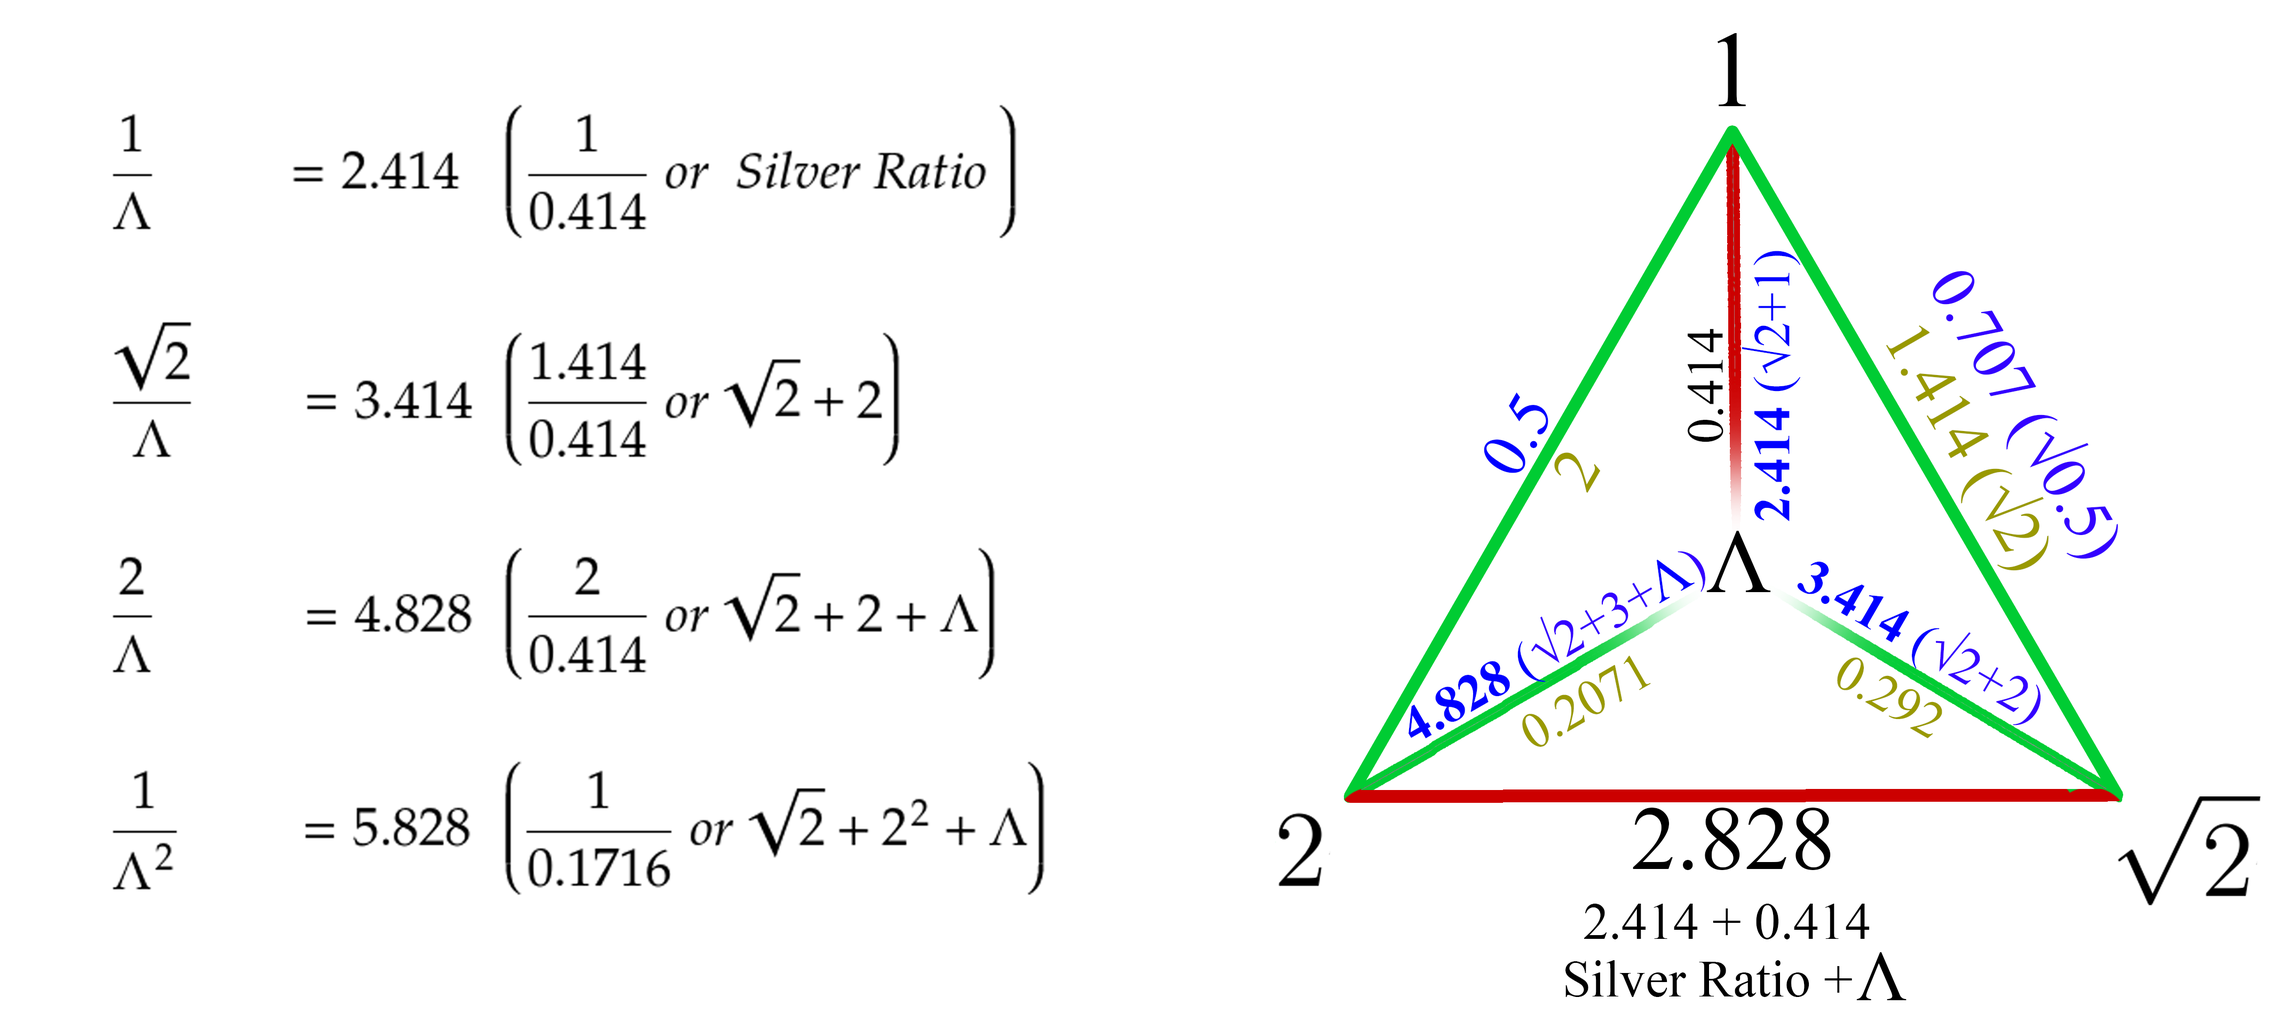
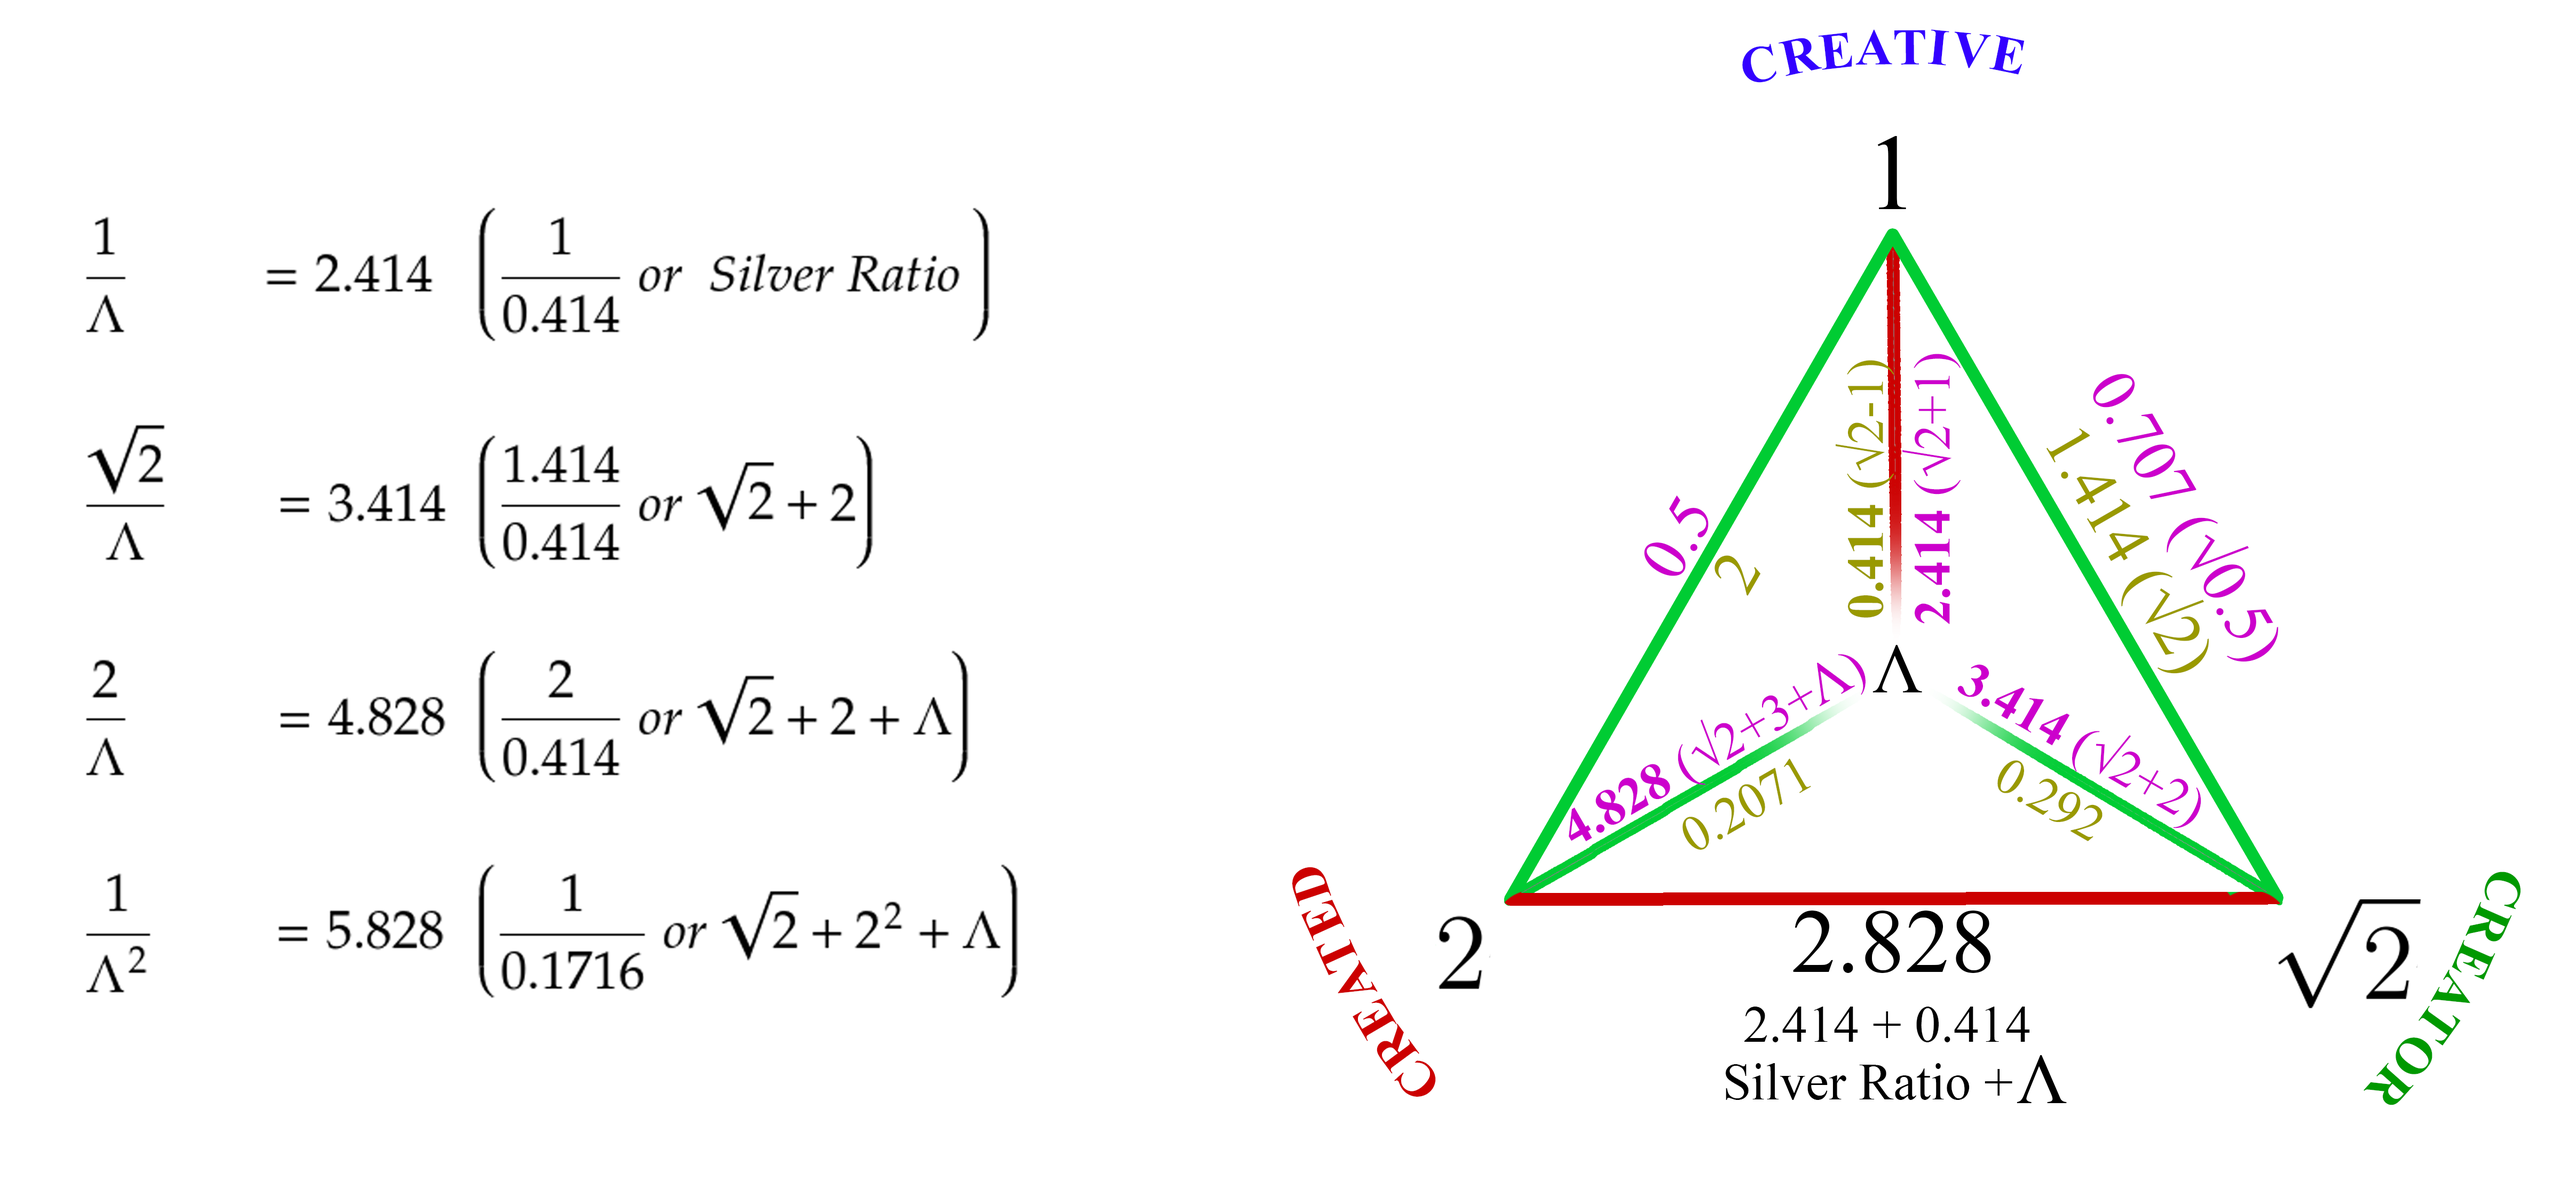
3.6.55 tetrahedral voids

diff --git a/docs/_layouts/default.html b/docs/_layouts/default.html
@@ -36,7 +36,7 @@
           <li><a target="_blank" href="https://mega.nz/#F!NiBwjQiA!VYOo9TlGW9u060-V1LQ0_w">Download <strong>ePub</strong></a></li>
           <li><a target="_blank" href="https://mega.nz/#F!NiBwjQiA!VYOo9TlGW9u060-V1LQ0_w">Download <strong>HTML</strong></a></li>
         </ul>
-              current version: Mon 23 Nov 2020 04:58:35 PM -03 v3.6.52
+              current version: Mon 23 Nov 2020 10:01:37 PM -03 v3.6.55
 
 <!--
         ZIP and TAR downloads include 20+ megs of webpages, scripts, images and other material. 

diff --git a/Styles/common_book_dev.css.less b/Styles/common_book_dev.css.less
@@ -38,7 +38,7 @@
     @page {
         border:@proof-borders;
 /*        @top-left {
-            content: "THOLONIA 3.6.52";
+            content: "THOLONIA 3.6.55";
 
             text-align:center;
             font-family: serif;

diff --git a/Styles/common_book_prod.css.less b/Styles/common_book_prod.css.less
@@ -41,7 +41,7 @@
     @page {
         border:@proof-borders;
 /*        @top-left {
-            content: "THOLONIA 3.6.52";
+            content: "THOLONIA 3.6.55";
 
             text-align:center;
             font-family: serif;

diff --git a/Latest/THOLONIA_THE_BOOK.md b/Latest/THOLONIA_THE_BOOK.md
@@ -9,11 +9,11 @@ ISBN-13: 978-1703984903
 rights: 'Copyright ©2020 Duncan Stroud CC BY-NC-SA 4.0'
 rights-desc: 'This book is an open sourced book.  This means that anyone can contribute changes or updates.  Instructions and more information at <https://tholonia.github.io/the-book> (or contact the author at duncan.stroud@gmail.com).  This book and its on-line version are distributed under the terms of the Creative Commons Attribution-Noncommercial-ShareAlike 4.0 International (CC BY-NC-SA 4.0) license, with the additional proviso that the right to publish it on paper for sale or other for-profit use is reserved to Duncan Stroud and authorized agents thereof.  A reference copy of this license may be found at <https://creativecommons.org/licenses/by-nc-sa/4.0/>.  The above terms include the following: Attribution - you must give appropriate credit, provide a link to the license, and indicate if changes were made.  You may do so in any reasonable manner, but not in any way that suggests the licensor endorses you or your use.  Noncommercial - You may not use the material for commercial purposes.  Share Alike - If you remix, transform, or build upon the material, you must distribute your contributions under the same license as the original.  No additional restrictions - you may not apply legal terms or technological measures that legally restrict others from doing anything the license permits.  Notices - You do not have to comply with the license for elements of the material in the public domain or where your use is permitted by an applicable exception or limitation.  No warranties are given.  The license may not give you all of the permissions necessary for your intended use.  For example, other rights such as publicity, privacy, or moral rights may limit how you use the material.'
 
-status: 'Updated: Sun 22 Nov 2020 11:08:36 PM -03 v3.6.49'
+status: 'Updated: Mon 23 Nov 2020 06:01:48 PM -03 v3.6.53'
 publisher: 'Welkin Wall Publishing'
 toc: true
 toc-title: 'Table of Contents'
-version:  3.6.49
+version:  3.6.53
 lang: en-US
 
 coverpage: true
@@ -26,7 +26,7 @@ logo_image: '![logo](../Images/titlepage.png)'
 # THE FOLLOWING ARE NOT USED
 
 titlegraphic: /home/jw/books/tholonia/Images/titlepage.png
-pagetitle: 'THOLONIA 3.6.49'
+pagetitle: 'THOLONIA 3.6.53'
 ---
 <div style='page-break-after: always; break-after: always;'></div>
 <img src="../Images/titlepage.png" style="width:100%"/>
@@ -4004,7 +4004,17 @@ What if we test this magic number of 0.414 on the number 3? Would be get somethi
 
 This is fantastically elegant in so many ways, and the recurring principle seems to be the Silver Ratio, which is based in 2.  
 
-We also see the significance of 2 in the Riemann Zeta Function (which we explain and look at in Appendix F, “An Unexpected Pattern”):  ζ(2)=<img src="../Images/math/311.svg" alt="\frac{\pi ^{2}}{6}" style="vertical-align: middle;height:18pt;"/> and ζ(2^-1^)=0, or ζ(<img src="../Images/math/309.svg" alt="\frac{1}{2}" style="vertical-align: middle;height:14pt;"/>) = 0
+For simplicity, let’s assign *0.414* to a variable **Λ**, *upper case lambda*.
+
+We could also then look for the qualities of *creativity* within the original *source* with 1&div;**Λ**, which shows us that **Λ** is the inverse of *Silver Ratio*, or *2.414*.   It also shows us a number of other interesting relationship especially when we map these values to the tholon.  IN the image below-right, green lines represent *division*, and red lines represent *multiplication*, in accordance with how we mapped Newton’s 2^nd^ Law to the tholon.
+
+
+
+<center><img src="../Images/lambda-tri-1.png" style="width:100%"/></center>
+
+We also see the significance of 2 in the Riemann Zeta Function (which we explain and look at in Appendix F, “An Unexpected Pattern”):  ζ(2)=<img src="../Images/math/311.svg" alt="\frac{\pi ^{2}}{6}" style="vertical-align: middle;height:18pt;"/> and ζ(2^-1^)=0, or ζ(<img src="../Images/math/309.svg" alt="\frac{1}{2}" style="vertical-align: middle;height:14pt;"/>) = 0.
+
+This value of **Λ** (lambda, 0.414) *might* be a good example of a tholonic *qualitative* value in that it was derived by the “formula” of *creative = created - creator*.   As well, **Λ** appears to have no significance as a *quantitative* value in the physical sciences as it does not appear in any constants, and while it is the inverse of the Silver Ratio, it itself does not appear to be a ratio that we see in the world.  **Λ** seems to only be of significance within the tholonic relationships.  This is similar in the way cross-summed values (See Appendix F, “*An Unexpected Pattern*”) show relationships between numbers. 
 
 ## Fibonacci Tholon
 

diff --git a/chapters/000-Intro.md b/chapters/000-Intro.md
@@ -9,11 +9,11 @@ ISBN-13: 978-1703984903
 rights: 'Copyright ©2020 Duncan Stroud CC BY-NC-SA 4.0'
 rights-desc: 'This book is an open sourced book.  This means that anyone can contribute changes or updates.  Instructions and more information at <https://tholonia.github.io/the-book> (or contact the author at duncan.stroud@gmail.com).  This book and its on-line version are distributed under the terms of the Creative Commons Attribution-Noncommercial-ShareAlike 4.0 International (CC BY-NC-SA 4.0) license, with the additional proviso that the right to publish it on paper for sale or other for-profit use is reserved to Duncan Stroud and authorized agents thereof.  A reference copy of this license may be found at <https://creativecommons.org/licenses/by-nc-sa/4.0/>.  The above terms include the following: Attribution - you must give appropriate credit, provide a link to the license, and indicate if changes were made.  You may do so in any reasonable manner, but not in any way that suggests the licensor endorses you or your use.  Noncommercial - You may not use the material for commercial purposes.  Share Alike - If you remix, transform, or build upon the material, you must distribute your contributions under the same license as the original.  No additional restrictions - you may not apply legal terms or technological measures that legally restrict others from doing anything the license permits.  Notices - You do not have to comply with the license for elements of the material in the public domain or where your use is permitted by an applicable exception or limitation.  No warranties are given.  The license may not give you all of the permissions necessary for your intended use.  For example, other rights such as publicity, privacy, or moral rights may limit how you use the material.'
 
-status: 'Updated: Mon 23 Nov 2020 04:58:35 PM -03 v3.6.52'
+status: 'Updated: Mon 23 Nov 2020 10:01:37 PM -03 v3.6.55'
 publisher: 'Welkin Wall Publishing'
 toc: true
 toc-title: 'Table of Contents'
-version:  3.6.52
+version:  3.6.55
 lang: en-US
 
 coverpage: true
@@ -26,7 +26,7 @@ logo_image: '![logo](../Images/titlepage.png)'
 # THE FOLLOWING ARE NOT USED
 
 titlegraphic: /home/jw/books/tholonia/Images/titlepage.png
-pagetitle: 'THOLONIA 3.6.52'
+pagetitle: 'THOLONIA 3.6.55'
 ---
 <div style='page-break-after: always; break-after: always;'></div>
 <img src="../Images/titlepage.png" style="width:100%"/>

diff --git a/chapters/520-C-Tholonic_Math.md b/chapters/520-C-Tholonic_Math.md
@@ -193,7 +193,11 @@ We could also then look for the qualities of *creativity* within the original *s
 
 We also see the significance of 2 in the Riemann Zeta Function (which we explain and look at in Appendix F, “An Unexpected Pattern”):  ζ(2)=<img src="../Images/math/311.svg" alt="\frac{\pi ^{2}}{6}" style="vertical-align: middle;height:18pt;"/> and ζ(2^-1^)=0, or ζ(<img src="../Images/math/309.svg" alt="\frac{1}{2}" style="vertical-align: middle;height:14pt;"/>) = 0.
 
-This value of **Λ** (lambda, 0.414) *might* be a good example of a tholonic *quantitative* value in that it appears to have no significance as a value in the physical.  It does not appear in any constants, and while it is the inverse of the Silver Ratio, it itself does not appear to be a ratio that we see in the world.  **Λ** seems to only be of significance within the tholonic relationships.  This is similar in the way cross-summed values (See Appendix F, “*An Unexpected Pattern*”) show relationships between numbers. 
+This value of **Λ** (lambda, 0.414) *might* be a good example of a tholonic *qualitative* value in that it was derived by the qualitative “formula” of *creative = created - creator*.   As we would expect, this number appears in nature, specifically, it is the ratio of the radius of a sphere that cal fit in the empty space of a tetrahedron (*tetrahedral void*) created by 4 spheres.  This may sound very obscure, but it is quite critical in the way atoms pack themselves together.
+
+<center><img src="../Images/tvoids.png" style="width:50%"/></center>
+
+**Λ** appears to have any real significance as a *quantitative* value in the physical sciences as it does not appear in any constants, and while it is the inverse of the Silver Ratio, it itself does not appear to be a ratio that we see in the world.  **Λ** seems to be of quite significance within the tetrahedral and tholonic relationships.  This is similar in the way cross-summed values (See Appendix F, “*An Unexpected Pattern*”) show relationships between numbers. 
 
 ## Fibonacci Tholon
 

diff --git a/README.md b/README.md
@@ -1,7 +1,7 @@
 
 see <https://tholonia.github.io/the-book/>
 
-Version {!Mon 23 Nov 2020 04:58:35 PM -03 v3.6.52}
+Version {!Mon 23 Nov 2020 10:01:37 PM -03 v3.6.55}
 
 Tholonia: The Existential Mechanics of Awareness
 Copyright © 2020 Duncan Stroud
